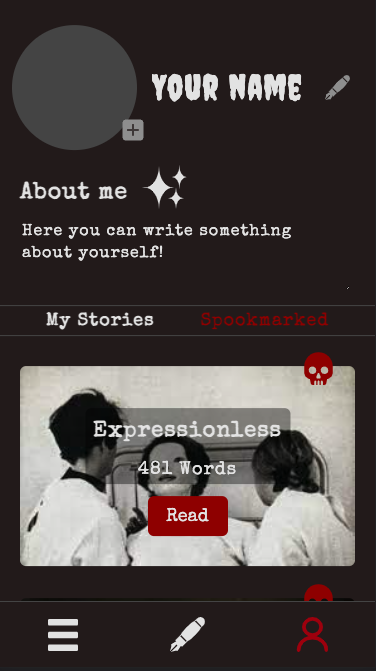
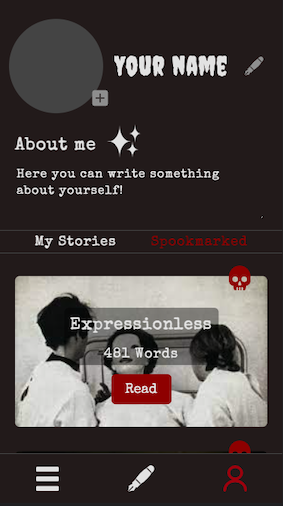
Adjusting size of page images

diff --git a/README.md b/README.md
@@ -1,7 +1,5 @@
 # Capstone Project: CREEPY(pen)NE
 
-![CREEPY(pen)NE](/src/Images/readMeImages/Header_black.svg)
-
 With CREEPY(pen)NE you can read or write spookie scary storys! You can also spookmark your favorites to your profile page to find them faster.
 If you are feeling creative, you can write your own creepypasta in the create page!
 And because even the best author makes mistakes, you can edit or delete your creepypastas in your profile.
